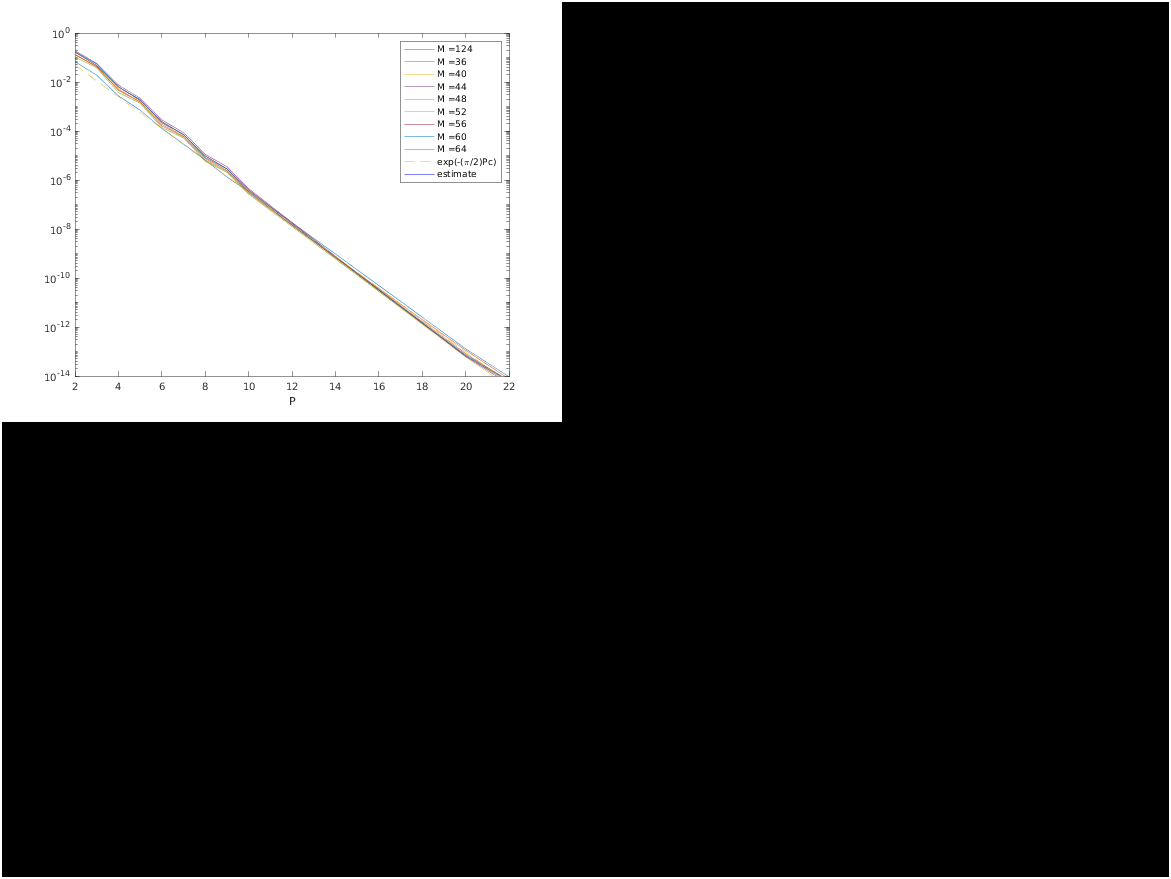
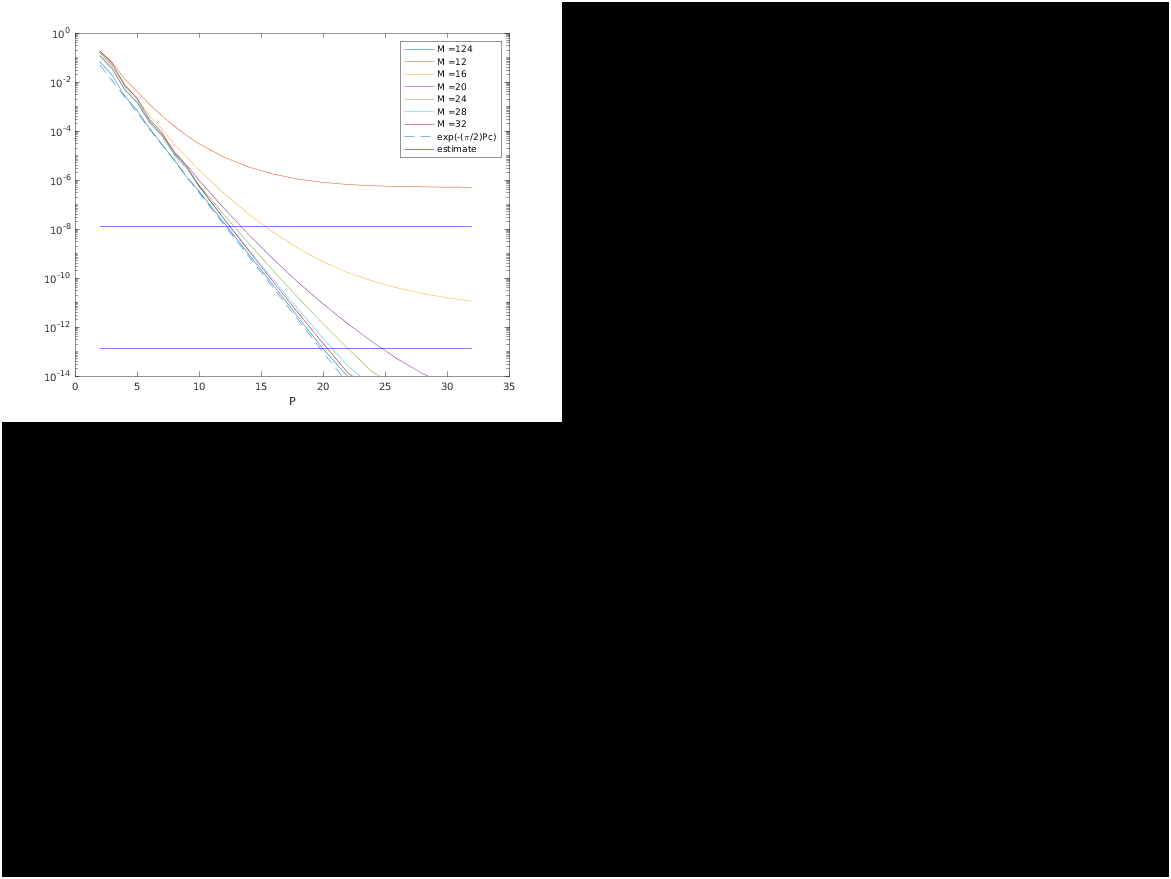
imgs

diff --git a/SE_Stokes_run/SE3P_Stokes/P_error.m b/SE_Stokes_run/SE3P_Stokes/P_error.m
@@ -42,7 +42,7 @@ end
 %ref = SE3P_Stokes(1:N,x,f,opt);
 rms_ref = rmse(ref);
 %% Compare solutions with changing P
-MM = 36:4:64;
+MM = 12:4:32;
 str = {};
 est = @(M,xi,L,f) sqrt(f)*(xi^3*L^2/(pi^4*(M/2)^(3/2)))*exp(-(pi*(M/2)/(xi*L))^2);
 e_vec = [];
